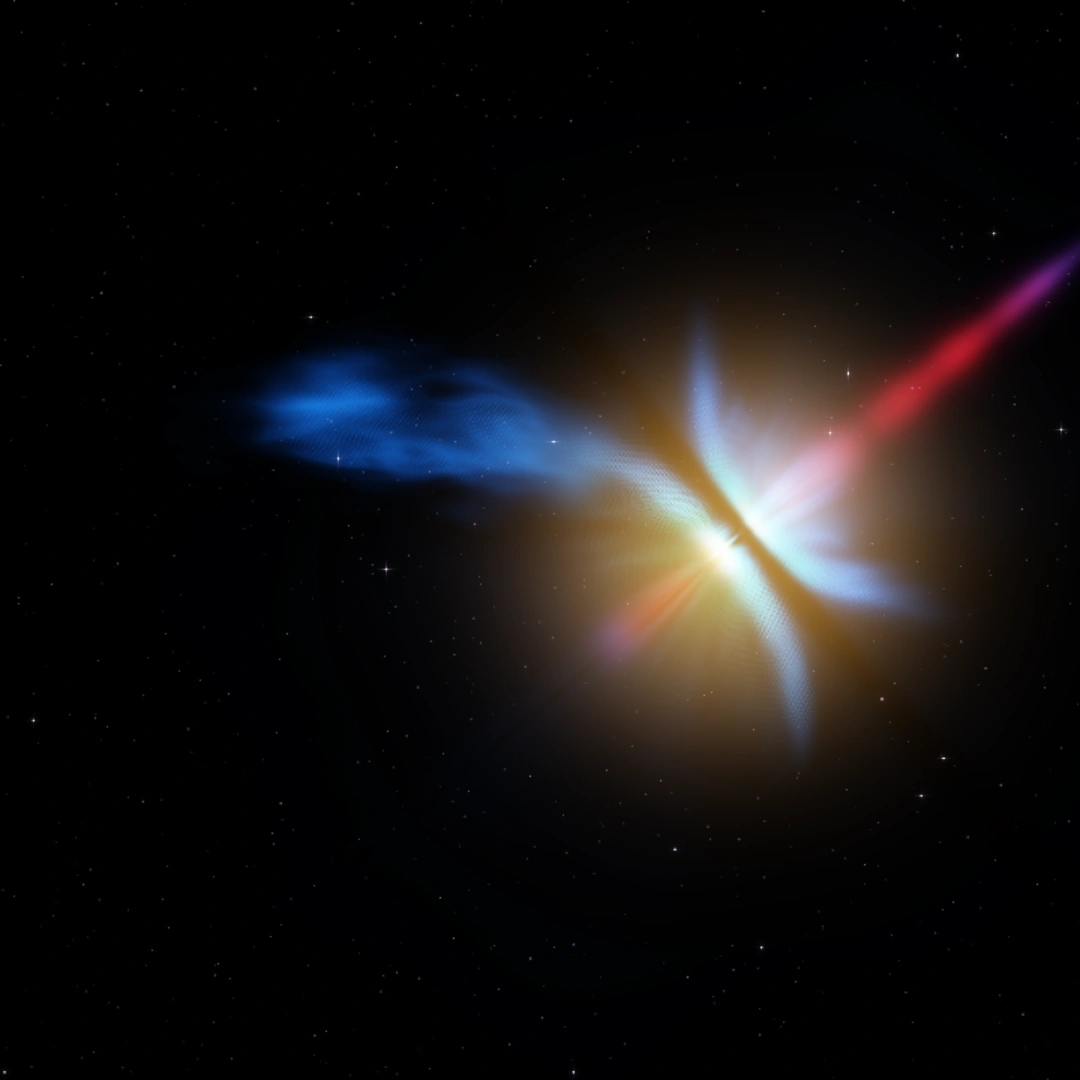
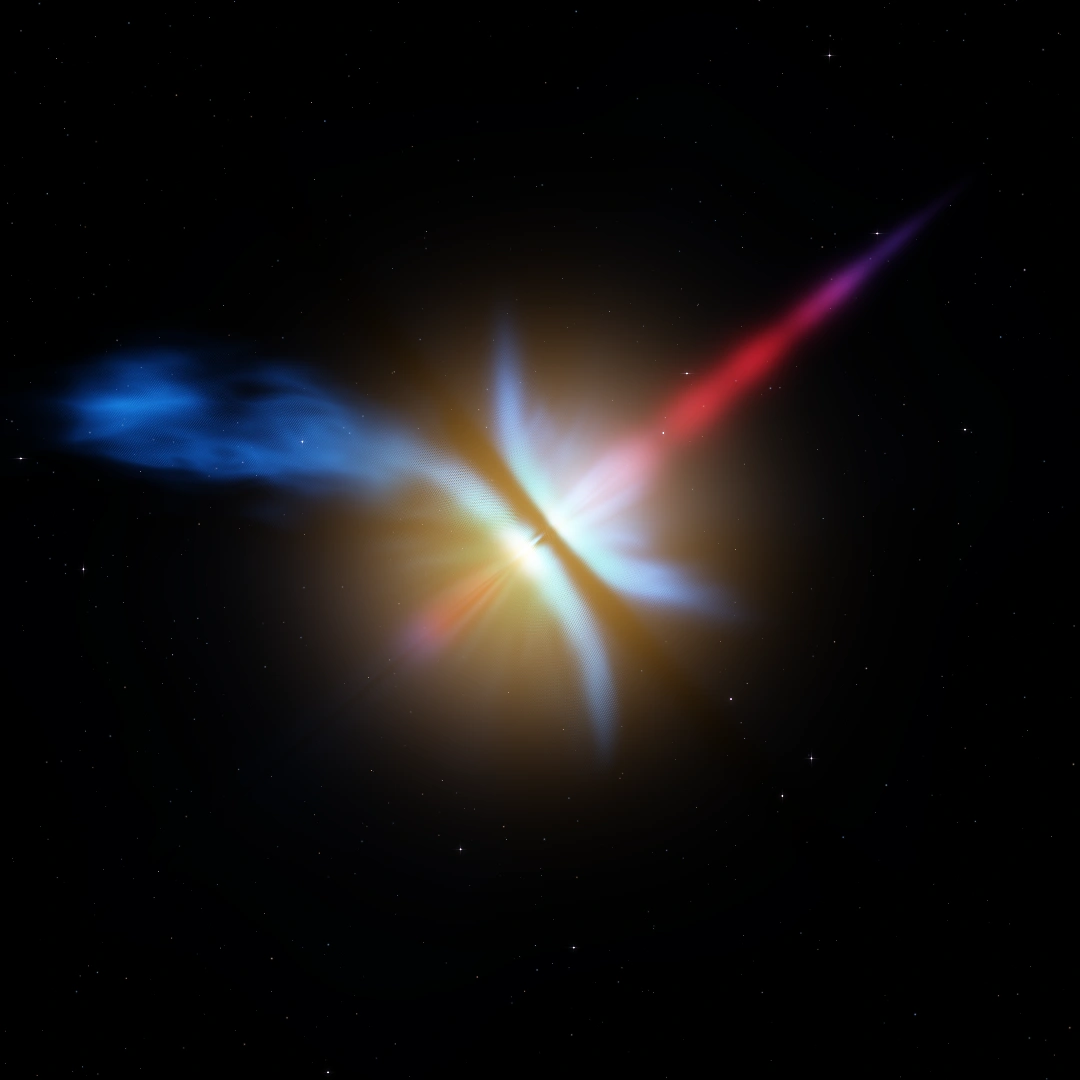
Nosotros: la estrella del celular, centrada
Sacada en cuadrado salía corrida a la derecha y con el chorro cortado. Ahora se saca en ancho y se recorta el cuadro
alrededor de su centro: queda en medio y el chorro sale completo.

Changed region(s): [[0.0306, 0.1833, 1.0, 0.7333]]

diff --git a/CLAUDE.md b/CLAUDE.md
@@ -163,7 +163,10 @@ al doble) en pantallas acostadas y `tierra-alta.webp` (957 × 1818, el de 375 ×
 `<picture>`, tapando el recuadro y volteada con el mismo `scaleX(-1)`. Ya no titilan sus estrellas. En el cuadro del
 logo, en PC, la estrella sigue en vivo (`estrella.js`) sobre su cielo en imagen (`cielo-estrella.webp`, sacado de
 `cielo.js` a 1180 × 664 al doble, sin pérdida); en celular (hasta 760 px) va todo en una imagen cuadrada
-(`estrella-celular.webp`, 1080 × 1080) y el lienzo de la estrella se esconde y ni arranca (`estrella.js` no empieza si
+(`estrella-celular.webp`, 1080 × 1080, con el centro de la estrella en medio y el chorro completo: se sacó en ancho, a
+1920 × 1080 con una copia de `estrella.js` sin el tope de 720 px, y se recortó el cuadro alrededor de su centro;
+sacada en cuadrado, la estrella salía corrida a la derecha y el chorro cortado, como se veía en vivo en el cel) y el
+lienzo de la estrella se esconde y ni arranca (`estrella.js` no empieza si
 está escondido). Cada versión baja solo sus imágenes. Se sacaron con Chrome sin ventana (`--headless=new
 --use-angle=d3d11 --force-device-scale-factor --virtual-time-budget --screenshot`) desde páginas que solo tenían el
 componente, y se pasaron a WebP con ffmpeg (calidad 95); si se cambia la Tierra, el cielo o la estrella, hay que
